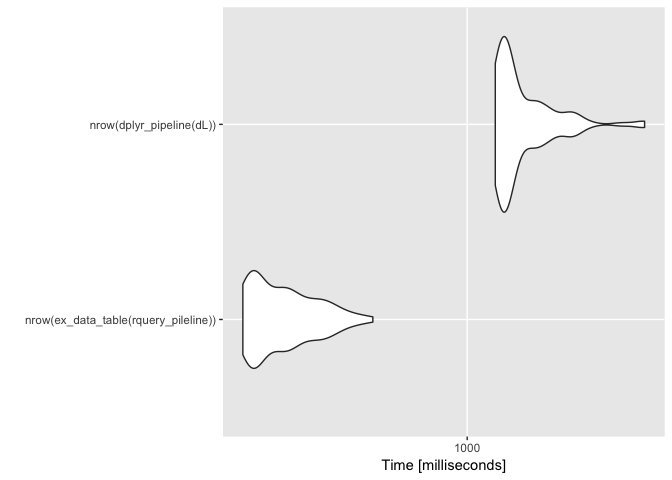
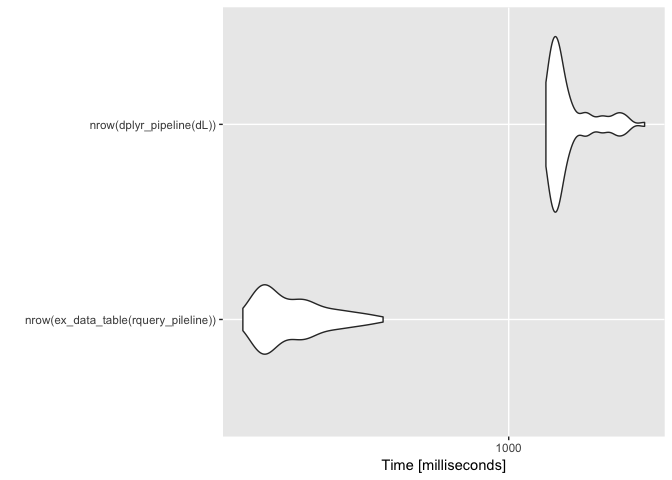
edit and re-run

diff --git a/extras/data_table.md b/extras/data_table.md
@@ -23,8 +23,11 @@ library("dplyr")
     ##     intersect, setdiff, setequal, union
 
 ``` r
-library("rquery")
+library("dtplyr")
+library("qdatatable") # devtools::install.packages("WinVector/qdatatable")
 ```
+
+    ## Loading required package: rquery
 
     ## Loading required package: wrapr
 
@@ -34,27 +37,6 @@ library("rquery")
     ## The following object is masked from 'package:dplyr':
     ## 
     ##     coalesce
-
-``` r
-# load data.table second so its definiton of := wins
-library("data.table")
-```
-
-    ## 
-    ## Attaching package: 'data.table'
-
-    ## The following object is masked from 'package:wrapr':
-    ## 
-    ##     :=
-
-    ## The following objects are masked from 'package:dplyr':
-    ## 
-    ##     between, first, last
-
-``` r
-library("dtplyr")
-library("qdatatable") # devtools::install.packages("WinVector/qdatatable")
-```
 
 ``` r
 # data example
@@ -120,9 +102,6 @@ cat(format(rquery_pileline))
 
 ``` r
 # execute
-# https://stackoverflow.com/questions/10527072/using-data-table-package-inside-my-own-package
-#.datatable.aware <- TRUE
-
 ex_data_table(rquery_pileline) %.>%
   knitr::kable(.)
 ```
@@ -184,7 +163,7 @@ system.time(print(nrow(ex_data_table(rquery_pileline))))
     ## [1] 20000
 
     ##    user  system elapsed 
-    ##   0.562   0.029   0.386
+    ##   0.510   0.015   0.285
 
 ``` r
 system.time(print(nrow(dplyr_pipeline(dL))))
@@ -193,7 +172,7 @@ system.time(print(nrow(dplyr_pipeline(dL))))
     ## [1] 20000
 
     ##    user  system elapsed 
-    ##   1.310   0.020   1.372
+    ##   1.244   0.017   1.270
 
 ``` r
 timings <- microbenchmark(
@@ -207,11 +186,11 @@ print(timings)
 
     ## Unit: milliseconds
     ##                                  expr       min        lq      mean
-    ##  nrow(ex_data_table(rquery_pileline))  257.9102  273.8922  334.8001
-    ##              nrow(dplyr_pipeline(dL)) 1185.0832 1233.9211 1422.0820
+    ##  nrow(ex_data_table(rquery_pileline))  245.7367  274.3203  323.6974
+    ##              nrow(dplyr_pipeline(dL)) 1217.0533 1263.8712 1378.8133
     ##     median        uq       max neval
-    ##   322.5735  373.5357  565.5198   100
-    ##  1284.1473 1511.5009 2920.6255   100
+    ##   302.3802  348.7881  515.1796   100
+    ##  1303.9606 1395.0246 2049.2771   100
 
 ``` r
 # summarize by hand using rquery database connector
@@ -226,8 +205,8 @@ timings %.>%
 
 | expr                                    |        mean|
 |:----------------------------------------|-----------:|
-| nrow(dplyr\_pipeline(dL))               |  1422081990|
-| nrow(ex\_data\_table(rquery\_pileline)) |   334800089|
+| nrow(dplyr\_pipeline(dL))               |  1378813259|
+| nrow(ex\_data\_table(rquery\_pileline)) |   323697401|
 
 ``` r
 autoplot(timings)
